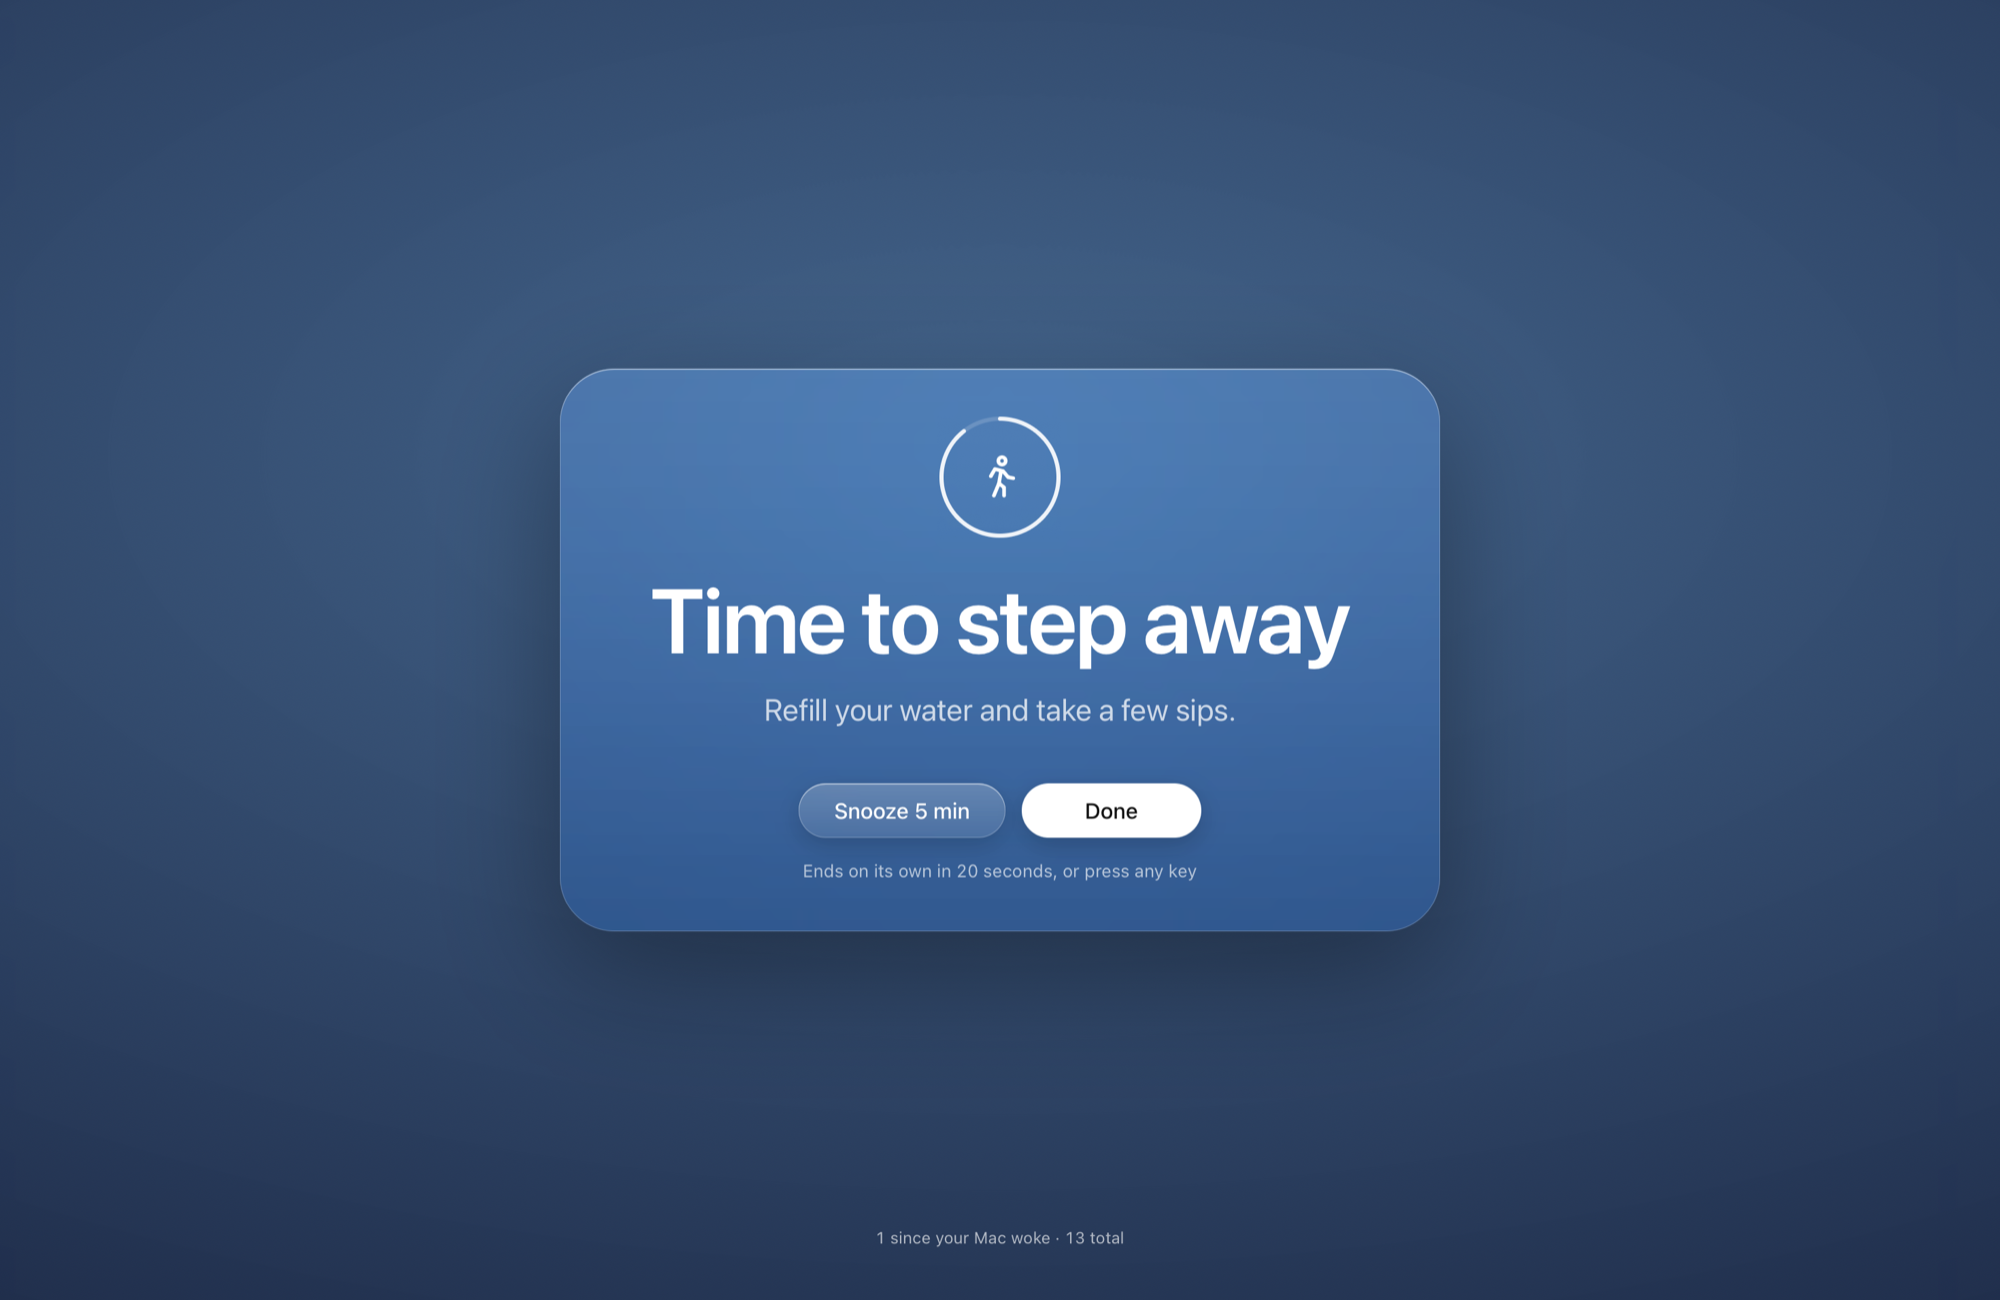
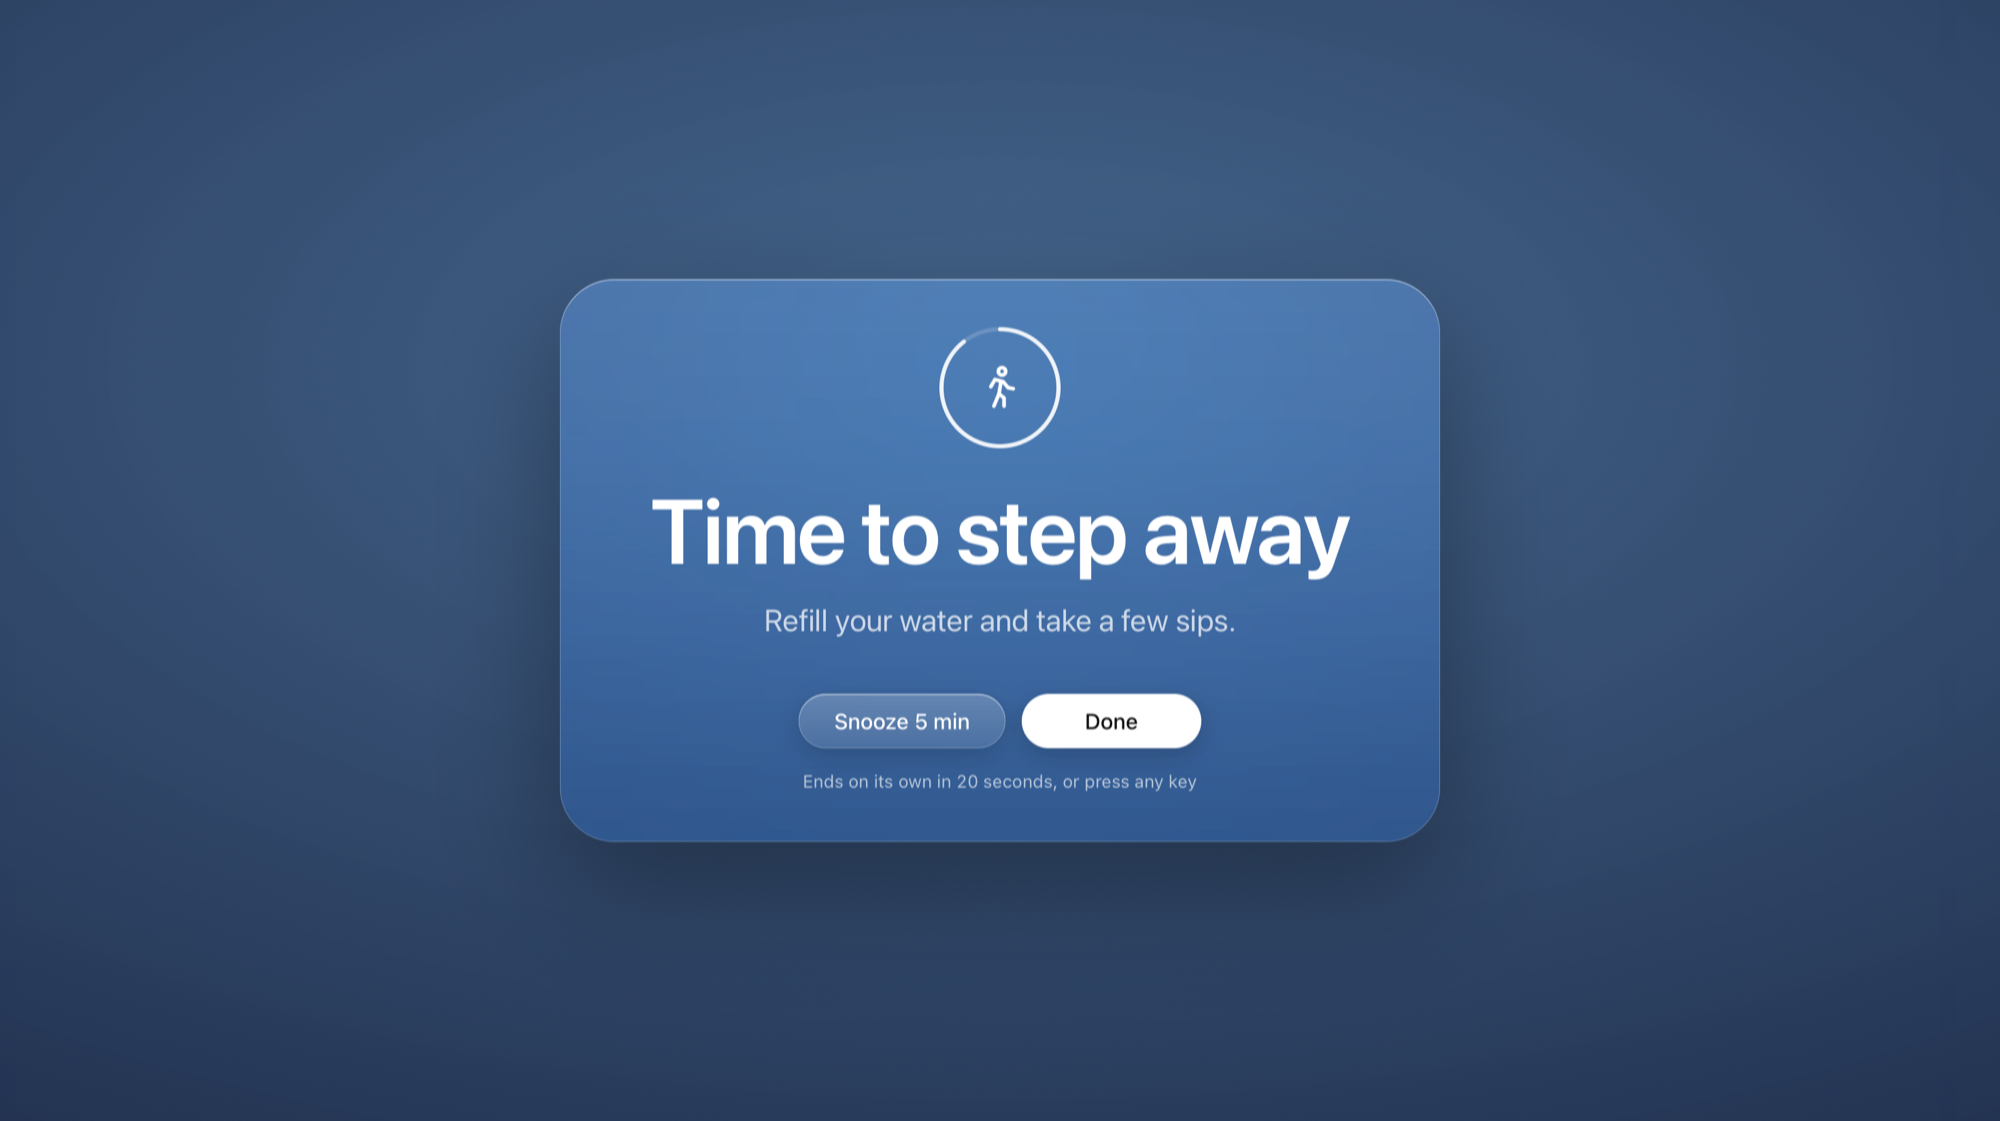
refresh screenshots without the counter and drop outdated ones

diff --git a/ui-tests/README.md b/ui-tests/README.md
@@ -1,81 +1,23 @@
-# UI snapshots (point-in-time reference)
+# Screenshots
 
-## 2026-09-30, 1.0.1 icon
+The images the main README shows, all captured on macOS 27 in dark mode at 2x.
+Settings and the menu come from a debug build run with `HOME` pointed at a
+temporary folder holding three sample nudges, so no real settings appear in
+them. Pages were switched without synthetic keyboard or mouse input.
 
-Captured on macOS 27, dark appearance, Retina (2x), with
-`screencapture -l <window id>`. The README shows both overlays and the first three.
+- `overlay-frosted-2026-09-30.png`: a reminder in the Frosted style with the
+  Card layout, a break idea and a 20 second break. Frosted blurs the desktop
+  behind it, and a window capture drops that blur, so this is a full display
+  capture, cropped to remove the menu bar and the area below the card, then
+  scaled to 2000 px wide. Nothing behind the blur is readable.
+- `overlay-2026-09-30.png`: the same reminder in the Ocean style, cropped and
+  scaled the same way.
+- `settings-reminder-2026-09-30.png`: the Reminder page for a nudge using the
+  eye symbol, the Forest style and the Ring layout.
+- `settings-schedule-2026-09-30.png`: the Schedule page counting down to the
+  next reminder.
+- `tray-2026-09-30.png`: the menu bar menu with a countdown line for each of
+  three nudges.
 
-- `settings-reminder-2026-09-30.png` and `settings-schedule-2026-09-30.png`:
-  the Settings window with the linocut bell in the sidebar. A debug build of
-  `9edd7bf` ran with `HOME` pointed at a temp folder holding three sample
-  nudges, so the installed app and its settings were left alone. Pages were
-  switched with AX press actions.
-- `tray-2026-09-30.png`: the menu bar menu from the same build, one countdown
-  line per nudge.
-- `about-2026-09-30.png`: the About panel of the installed, notarized 1.0.1
-  (`3a65cf1`). The unbundled debug build has no app icon, so its About panel
-  shows a folder. macOS draws the gray plate around the icon.
-- `overlay-2026-09-30.png`: the reminder as it appears when a nudge goes
-  off, from the same debug build: Card layout, Ocean style, a break idea and
-  a 20 second break. Started with Take a Break Now from the menu; it closed
-  on its own. Ocean was used because Frosted blurs the real desktop behind
-  it. Scaled from 2940 to 2000 px wide.
-- `overlay-frosted-2026-09-30.png`: the same reminder in the Frosted style,
-  over a blurred real desktop. A window capture drops the blur and shows a
-  flat gray card, so this is a full display capture
-  (`screencapture -D1`), cropped 70 px top and bottom to remove the menu bar,
-  then scaled to 2000 px wide. Nothing behind the blur is readable.
-
-## 2026-09-27, multiple nudges
-
-Captured from a debug build of the working tree (after `3dc3436`, before
-this change was committed) on macOS 27, light appearance, Retina (2x), with
-`screencapture -l <window id>`. The build ran with `HOME` pointed at a temp
-folder and three nudges in its config.json, so the installed app and its
-settings were left alone. Pages were switched with AX press actions.
-
-- `settings-nudges-2026-09-27.png`: the Schedule page with the nudge picker
-  in the pane bar and the "This nudge is on" switch (shown with 2+ nudges).
-- `nudge-picker-2026-09-27.png`: the picker open: each nudge, then New
-  Nudge… and Delete.
-- `settings-symbol-2026-09-27.png`: the Reminder page for a nudge using the
-  eye symbol, the Forest style and the Ring layout, with the Symbol row.
-- `tray-nudges-2026-09-27.png`: the menu bar menu with one countdown line per
-  nudge, soonest first.
-
-The overlay's "Also now" line was not captured from the app, because showing
-the reminder takes over every screen.
-
-## 2026-09-27
-
-Captured from the signed release build on macOS 27, Retina (2x), with
-`screencapture -l <window id>`.
-
-- `settings-2026-09-27.png`: the redesigned Settings window (780x580
-  logical), a sidebar styled like System Settings over the native window
-  material,
-  showing the Reminder page with its live preview, style swatches and the
-  Classic / Card / Ring layout picker (0.2.0, `3dc3436`, light appearance,
-  Card selected).
-- `about-2026-09-27.png`: the About panel opened from the menu bar menu
-  (working tree after `671e0e6`, dark appearance).
-
-The overlay was not recaptured: showing it takes over every screen.
-
-## 2026-09-12
-
-Date captured: 2026-09-12, bundled release build of the working tree at
-that time (auto-dismiss + interval floor + settings-persistence batch). Commit new screenshots next to these whenever the
-UI intentionally changes, named `<surface>-<YYYY-MM-DD>.png`.
-
-- `settings-current.png`: replica of the Settings window at its true
-  440x500 logical content size (same HTML/CSS/JS as `index.html`; the
-  real window differs only by native window chrome (title bar), which
-  adds ~28px above this region).
-
-How the settings replica was produced: NSStatusItem menus are not
-exposed to the accessibility bridge on modern macOS, so the tray menu
-could not be clicked programmatically. `index.html`/`styles.css`/
-`main.js` were served directly with a `window.__TAURI__` stub returning
-the current state shape, so the page used the same files, CSS and JS
-render path as the app.
+When the interface changes, replace these with new captures under the same
+names and update the date in the file names and here.

diff --git a/README.md b/README.md
@@ -76,7 +76,6 @@ matters most if you have ADHD or tend to hyperfocus:
 - Sound: Chime, macOS system sounds, or none
 - Time left in the menu bar: never, only in the last 5 minutes as a heads-up,
   or always (macOS and Linux)
-- Show or hide the reminder counter
 - After waking from sleep: re-enable reminders, restart the timer
 - Open at login
 
